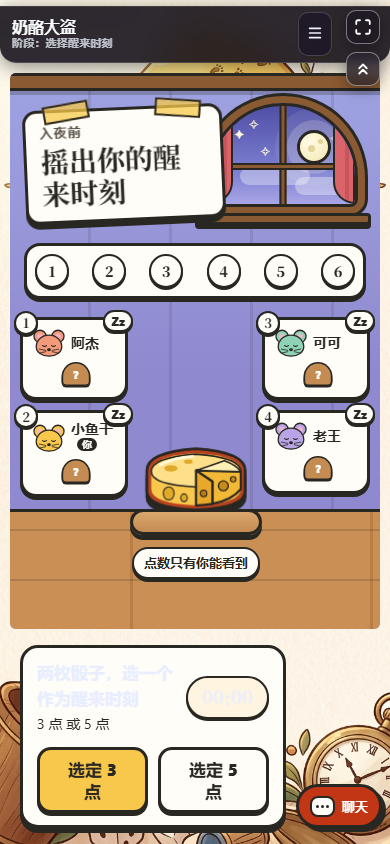
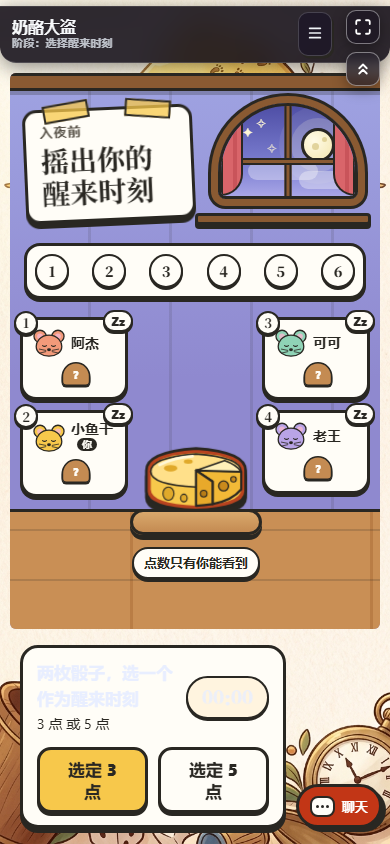
fix(cheese-thief): 结算坞奶油卡显式锁墨色防浅字继承 + 阁楼截图基线刷新

diff --git a/packages/client/src/game/cheese-thief/cheese-thief.css b/packages/client/src/game/cheese-thief/cheese-thief.css
@@ -3627,9 +3627,11 @@ html[data-motion-level='off'] .cheese-vignette {
   border: 3px solid var(--game-ink);
   border-radius: 18px;
   box-shadow: 0 5px 0 var(--game-ink);
+  /* 壳是 theme=night（浅色文字），坞是奶油卡：必须显式锁墨色，防止继承浅字 */
+  color: var(--game-ink);
 }
 .cta-dock__info { flex: 1; min-width: 0; }
-.cta-dock__info strong { display: block; font-size: 19px; }
+.cta-dock__info strong { display: block; font-size: 19px; color: var(--game-ink); }
 .cta-dock__info span { font-size: 15px; color: var(--game-ink); }
 /* 复用 e2e 锚点类名；中和旧段落样式 */
 .cta-dock .cheese-secret-card {
@@ -3644,12 +3646,15 @@ html[data-motion-level='off'] .cheese-vignette {
   font-weight: 700;
   font-size: 18px;
   font-variant-numeric: tabular-nums;
+  color: var(--game-ink);
   padding: 6px 14px;
   background: var(--game-paper);
   border: 2.5px solid var(--game-ink);
   border-radius: 999px;
   box-shadow: 0 2px 0 var(--game-ink);
 }
+/* 共享倒计时组件的紧急态色在奶油纸上也要保住对比度 */
+.cta-dock__pill .tabletop-countdown-text { color: inherit; }
 .cta-dock__actions { display: flex; gap: 10px; }
 
 .cta-btn {

diff --git a/docs/plans/2026-09-29-cheese-thief-visual/PROGRESS.md b/docs/plans/2026-09-29-cheese-thief-visual/PROGRESS.md
@@ -4,7 +4,7 @@
 
 | 任务 | 内容 | 状态 | 证据（命令、退出码、grep/几何检查、截图路径） |
 |---|---|---|---|
-| T1 | 阁楼骨架（atticModel + AtticRoom + AtticSeats + 壳接入 + 昼夜扫屏） | 待开工 | |
+| T1 | 阁楼骨架（atticModel + AtticRoom + AtticSeats + 壳接入 + 昼夜扫屏） | 已完成 | 单测 `npx tsx --test packages/client/tests/cheeseThiefAttic.test.ts` 13/13 绿；`npm run typecheck` 退出 0；`npm run build` 退出 0；几何走查 `node scripts/capture-cheese-attic-shots.mjs`：9 场景 × 1280×800/390×844 全部 `hit:[] out:[]`（修复记录：中央区 top 改 `max(37.5%,260px)` 避矮舞台压拱窗；手机席位 116→108px 防擦中央区；窄档用 `@container (max-width:380px)` 因为视口 390 时舞台实测 370；坞文字锁 `--game-ink` 修壳 night 主题浅字继承）。截图：docs/superpowers/reports/2026-08-15-game-ui-refresh/cheese-thief-attic/。偏差备注：①新类名前缀用 `.cta-` 而非计划建议的 `.ct-`——旧 V04 段已占用 `.ct-seat` 等（T6 清场前共存）；②`packages/client/tests/seatDriftRobustness.test.ts` 更新了奶酪大盗断言（原断言钉死旧「时刻自选面板」，与新坞内按钮设计冲突），该文件不在白名单内，属必要同步 |
 | T2 | ② 掷骰（大骰盅摇/掀/盖回，4 人两骰 choose_hour，hours mine） | 待开工 | |
 | T3 | ① 夜里醒来（可见性口径、自动偷 + 飞行、偷看、私密卡） | 待开工 | |
 | T4 | ③ 天亮指认（倒计时圆盘、dawn 坞、点席位投票 + 就是你！+ 已投，隐私） | 待开工 | |
